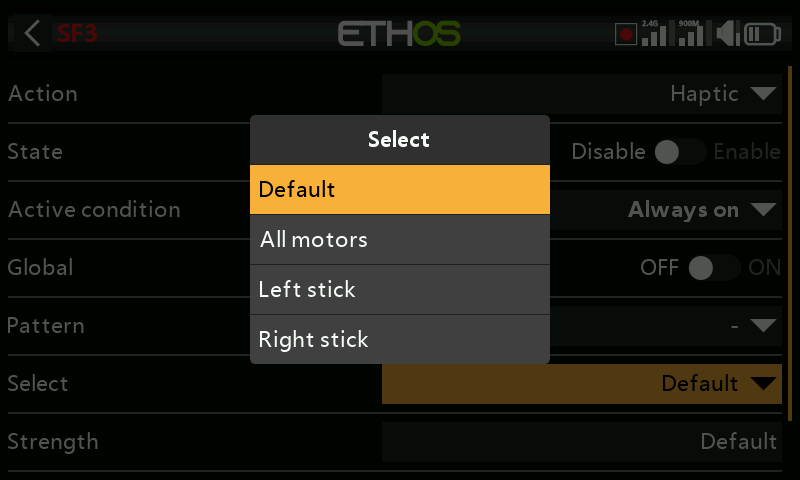
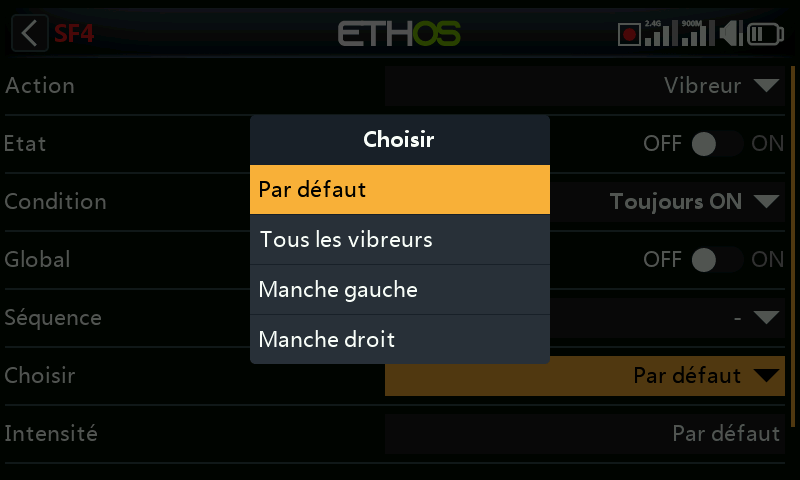
x20proaw screenshots added

diff --git a/forge/screenshots.py b/forge/screenshots.py
@@ -97,10 +97,15 @@ X18S_MACROS = [
   "x18s.lua"
 ]
 
+X20PROAW_MACROS = [
+    "x20proaw.lua"
+]
+
 ALL_MACROS = {
     "X20S_FCC": X20S_MACROS,
     "X20PRO_FCC": X20PRO_MACROS,
     "X18S_FCC": X18S_MACROS,
+    "X20PROAW_FCC": X20PROAW_MACROS,
 }
 
 
@@ -159,6 +164,9 @@ def setup_builddir(release, radio):
         shutil.copy(os.path.join(LOCALIZED_FORGE_DIR, f"{ radio }.bin"), os.path.join(BUILD_DIR, "radio.bin"))
     elif os.path.exists(os.path.join(COMMON_FORGE_DIR, f"{ radio }.bin")):
         shutil.copy(os.path.join(COMMON_FORGE_DIR, f"{ radio }.bin"), os.path.join(BUILD_DIR, "radio.bin"))
+    else:
+        print(f"Missing { radio }.bin!")
+        exit(-1)
 
     for name in BUILD_SOURCE_DIRS:
         if os.path.exists(os.path.join(COMMON_FORGE_DIR, name)):
